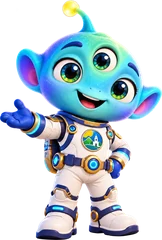
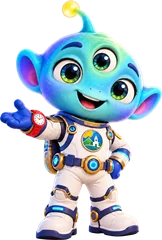
Actualiza la imagen de JUAICO

diff --git a/js/juaico.js b/js/juaico.js
@@ -271,9 +271,9 @@ window.incluResponder=responder;window.juaicoPreguntas=PREGUNTAS;
 /* ======================= INTERFAZ ======================= */
 function montar(){
   const fab=document.createElement('button');fab.className='ia-fab';fab.id='iaFab';fab.setAttribute('aria-label','Abrir el asistente '+NOMBRE);
-  fab.innerHTML=`<span class="ia-fab-av"><span class="ia-sombra"></span><img class="ia-pj" src="assets/juaico-mini.webp" alt=""><i class="ia-star s1"></i><i class="ia-star s2"></i><i class="ia-star s3"></i></span><span class="ia-fab-txt"><b>Pregúntale a ${NOMBRE}</b><small>Asistente del tablero</small></span><span class="ia-burbuja">¡Hola! Soy ${NOMBRE} 👋</span>`;
+  fab.innerHTML=`<span class="ia-fab-av"><span class="ia-sombra"></span><img class="ia-pj" src="assets/juaico-mini.webp?v=2" alt=""><i class="ia-star s1"></i><i class="ia-star s2"></i><i class="ia-star s3"></i></span><span class="ia-fab-txt"><b>Pregúntale a ${NOMBRE}</b><small>Asistente del tablero</small></span><span class="ia-burbuja">¡Hola! Soy ${NOMBRE} 👋</span>`;
   const pnl=document.createElement('section');pnl.className='ia-pnl';pnl.id='iaPnl';pnl.setAttribute('aria-label','Asistente '+NOMBRE);
-  pnl.innerHTML=`<header class="ia-h"><img class="ia-h-pj" src="assets/juaico-mini.webp" alt=""><div><b>${NOMBRE}</b><small><span class="ia-on"></span>Asistente de la PP de Discapacidad</small></div>
+  pnl.innerHTML=`<header class="ia-h"><img class="ia-h-pj" src="assets/juaico-mini.webp?v=2" alt=""><div><b>${NOMBRE}</b><small><span class="ia-on"></span>Asistente de la PP de Discapacidad</small></div>
      <button class="ia-hb" id="iaWel" title="Ver bienvenida"><i class="fa-solid fa-hand-sparkles"></i></button><button class="ia-hb" id="iaLib" title="Preguntas sugeridas"><i class="fa-solid fa-lightbulb"></i></button><button class="ia-hb" id="iaClr" title="Nueva conversación"><i class="fa-solid fa-rotate-left"></i></button><button class="ia-hb" id="iaX" title="Cerrar"><i class="fa-solid fa-xmark"></i></button></header>
    <div class="ia-msgs" id="iaMsgs" aria-live="polite"></div>
    <div class="ia-lib" id="iaLibBox" hidden></div>
@@ -295,7 +295,7 @@ function montar(){
   const wel=document.createElement('div');wel.className='jw';wel.id='jw';wel.setAttribute('role','dialog');wel.setAttribute('aria-modal','true');wel.setAttribute('aria-label','Bienvenida de '+NOMBRE);
   const estrellas=Array.from({length:22},(_,i)=>`<i style="left:${(i*37)%100}%;top:${(i*53)%62}%;animation-delay:${(i%7)*.45}s;transform:scale(${.6+(i%4)*.25})"></i>`).join('');
   wel.innerHTML=`<div class="jw-card">
-     <div class="jw-arte"><div class="jw-stars">${estrellas}</div><span class="jw-luna"></span><span class="jw-galaxia"></span><span class="jw-monte m1"></span><span class="jw-monte m2"></span><span class="jw-monte m3"></span><span class="jw-luces"></span><div class="jw-pj-wrap"><span class="jw-sombra"></span><img class="jw-pj" src="assets/juaico-personaje.webp" alt="${NOMBRE}, el asistente del tablero, saludando"></div><span class="jw-globo">¡Hola! 👋</span><span class="jw-badge"><i class="fa-solid fa-wand-magic-sparkles"></i> Asistente del tablero</span></div>
+     <div class="jw-arte"><div class="jw-stars">${estrellas}</div><span class="jw-luna"></span><span class="jw-galaxia"></span><span class="jw-monte m1"></span><span class="jw-monte m2"></span><span class="jw-monte m3"></span><span class="jw-luces"></span><div class="jw-pj-wrap"><span class="jw-sombra"></span><img class="jw-pj" src="assets/juaico-personaje.webp?v=2" alt="${NOMBRE}, el asistente del tablero, saludando"></div><span class="jw-globo">¡Hola! 👋</span><span class="jw-badge"><i class="fa-solid fa-wand-magic-sparkles"></i> Asistente del tablero</span></div>
      <div class="jw-txt">
        <button class="jw-x" aria-label="Cerrar bienvenida"><i class="fa-solid fa-xmark"></i></button>
        <span class="jw-kick">Alcaldía de Tenjo · Política Pública de Discapacidad</span>
@@ -330,13 +330,13 @@ function montar(){
   if(mostrar)setTimeout(verBienvenida,900);
   else try{if(!sessionStorage.getItem('iaHola')){setTimeout(()=>fab.classList.add('hola'),1800);setTimeout(()=>fab.classList.remove('hola'),9000);sessionStorage.setItem('iaHola','1')}}catch(e){}
   function libHTML(){return PREGUNTAS.map(([c,ic,qs])=>`<div class="ia-cat"><h6><i class="fa-solid ${ic}"></i>${c}</h6>${qs.map(q=>`<button data-q="${esc(q)}">${esc(q)}</button>`).join('')}</div>`).join('')}
-  function bienvenida(){bot({html:`<div class="ia-banner"><span class="ia-montes"></span><img class="ia-banner-pj" src="assets/juaico-personaje.webp" alt="${NOMBRE} saludando"><span class="ia-bsombra"></span><span class="ia-tw t1"></span><span class="ia-tw t2"></span><span class="ia-tw t3"></span><span class="ia-tw t4"></span></div><p>¡Hola! Soy <b>${NOMBRE}</b> 👋, el asistente del tablero de la Política Pública de Inclusión para Personas con Discapacidad de Tenjo.</p><p>Pregúntame por el avance de una vigencia, eje, línea o acción, por la población beneficiada, los logros o las dependencias.</p>`,chips:['¿Cómo va la política en 2026?','Dame el avance de la línea estratégica 1.3','¿Cuáles son las acciones más rezagadas?','¿Cuál es la población beneficiada?','Ver todas las preguntas']},true)}
+  function bienvenida(){bot({html:`<div class="ia-banner"><span class="ia-montes"></span><img class="ia-banner-pj" src="assets/juaico-personaje.webp?v=2" alt="${NOMBRE} saludando"><span class="ia-bsombra"></span><span class="ia-tw t1"></span><span class="ia-tw t2"></span><span class="ia-tw t3"></span><span class="ia-tw t4"></span></div><p>¡Hola! Soy <b>${NOMBRE}</b> 👋, el asistente del tablero de la Política Pública de Inclusión para Personas con Discapacidad de Tenjo.</p><p>Pregúntame por el avance de una vigencia, eje, línea o acción, por la población beneficiada, los logros o las dependencias.</p>`,chips:['¿Cómo va la política en 2026?','Dame el avance de la línea estratégica 1.3','¿Cuáles son las acciones más rezagadas?','¿Cuál es la población beneficiada?','Ver todas las preguntas']},true)}
   function user(t){const d=document.createElement('div');d.className='ia-m u';d.innerHTML=`<div class="ia-b">${esc(t)}</div>`;msgs.appendChild(d);msgs.scrollTop=msgs.scrollHeight}
   function bot(r,inst){const d=document.createElement('div');d.className='ia-m b';
     const tools=`${r.ir?`<button class="ia-go" data-go='${esc(JSON.stringify(r.ir))}'><i class="fa-solid fa-arrow-up-right-from-square"></i>${esc(r.ir.label)}</button>`:''}${r.copiar?`<button class="ia-go" data-copy="${esc(r.copiar)}"><i class="fa-solid fa-copy"></i>Copiar texto</button>`:''}${r.accion?`<button class="ia-go" data-acc='${esc(JSON.stringify(r.accion))}'><i class="fa-solid fa-magnifying-glass-chart"></i>Ver ficha de la acción</button>`:''}`;
-    d.innerHTML=`<img class="ia-av" src="assets/juaico-mini.webp" alt=""><div class="ia-b">${r.html}${r.todas?`<div class="ia-libin">${libHTML()}</div>`:''}${tools?`<div class="ia-tools">${tools}</div>`:''}${r.chips&&r.chips.length?`<div class="ia-chips">${r.chips.map(c=>`<button data-q="${esc(c)}">${esc(c)}</button>`).join('')}</div>`:''}</div>`;
+    d.innerHTML=`<img class="ia-av" src="assets/juaico-mini.webp?v=2" alt=""><div class="ia-b">${r.html}${r.todas?`<div class="ia-libin">${libHTML()}</div>`:''}${tools?`<div class="ia-tools">${tools}</div>`:''}${r.chips&&r.chips.length?`<div class="ia-chips">${r.chips.map(c=>`<button data-q="${esc(c)}">${esc(c)}</button>`).join('')}</div>`:''}</div>`;
     if(inst){msgs.appendChild(d);return}
-    const t=document.createElement('div');t.className='ia-m b';t.innerHTML='<img class="ia-av" src="assets/juaico-mini.webp" alt=""><div class="ia-b ia-typing"><i></i><i></i><i></i></div>';msgs.appendChild(t);msgs.scrollTop=msgs.scrollHeight;
+    const t=document.createElement('div');t.className='ia-m b';t.innerHTML='<img class="ia-av" src="assets/juaico-mini.webp?v=2" alt=""><div class="ia-b ia-typing"><i></i><i></i><i></i></div>';msgs.appendChild(t);msgs.scrollTop=msgs.scrollHeight;
     setTimeout(()=>{t.replaceWith(d);d.classList.add('in');msgs.scrollTop=msgs.scrollHeight-d.offsetHeight-20},450+Math.random()*350)}
   function enviar(t){user(t);let r;try{r=responder(t)}catch(err){console.error(err);r={html:'<p>Tuve un problema al calcular esa respuesta. Intenta formularla de otra manera.</p>'}}bot(r)}
   function irA(o){if(o.vig&&o.vig!==T().S.vig)T().setVig(o.vig);if(o.eje!=null&&o.eje!==T().S.eje)T().setEje(o.eje);location.hash='#/'+o.ruta;if(innerWidth<760)cerrar()}

diff --git a/index.html b/index.html
@@ -28,7 +28,7 @@
       <a href="#/actividades" data-r="actividades"><i class="fa-solid fa-table-list"></i><span>Explorador de actividades</span></a>
       <a href="#/dependencias" data-r="dependencias"><i class="fa-solid fa-sitemap"></i><span>Dependencias y PDT</span></a>
       <a href="#/informes" data-r="informes"><i class="fa-solid fa-file-pdf"></i><span>Informes PDF</span></a>
-      <a href="#" data-ia-open class="nav-ia"><img src="assets/juaico-mini.webp" alt=""><span>Asistente JUAICO</span></a>
+      <a href="#" data-ia-open class="nav-ia"><img src="assets/juaico-mini.webp?v=2" alt=""><span>Asistente JUAICO</span></a>
     </nav>
     <div class="sb-foot">
       <img src="assets/secretaria-planeacion.jpg" alt="Secretaría de Planeación y Desarrollo Territorial">
@@ -68,6 +68,6 @@
 <script src="data/datos.js?v=5"></script>
 <script src="js/informe.js?v=5"></script>
 <script src="js/app.js?v=5"></script>
-<script src="js/juaico.js?v=9"></script>
+<script src="js/juaico.js?v=10"></script>
 </body>
 </html>
